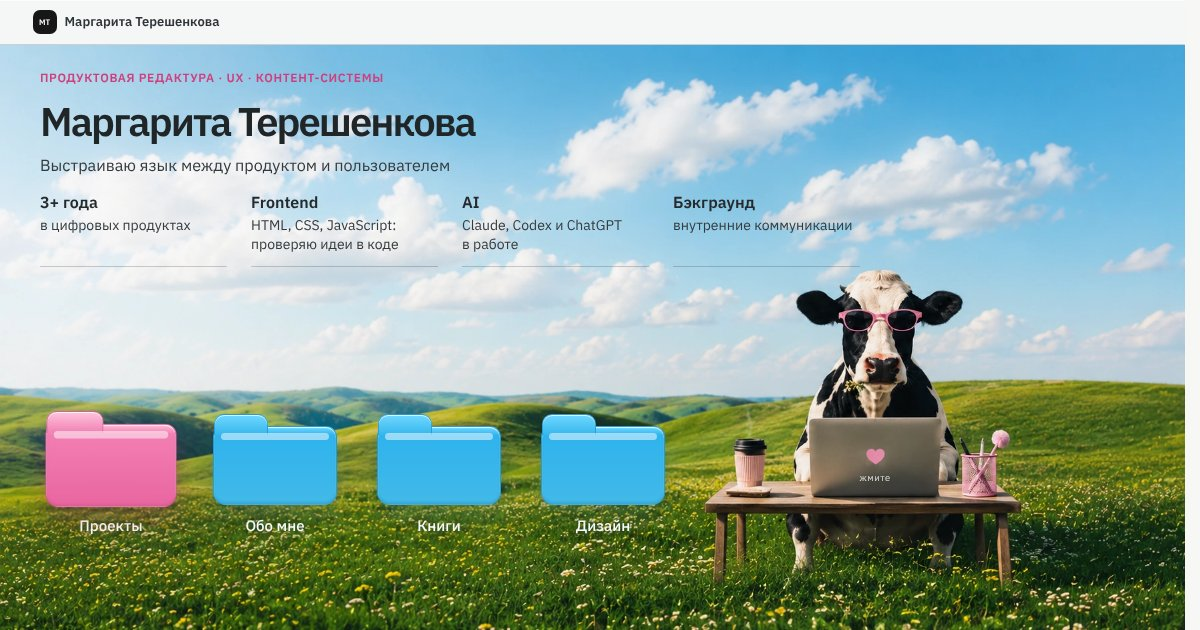
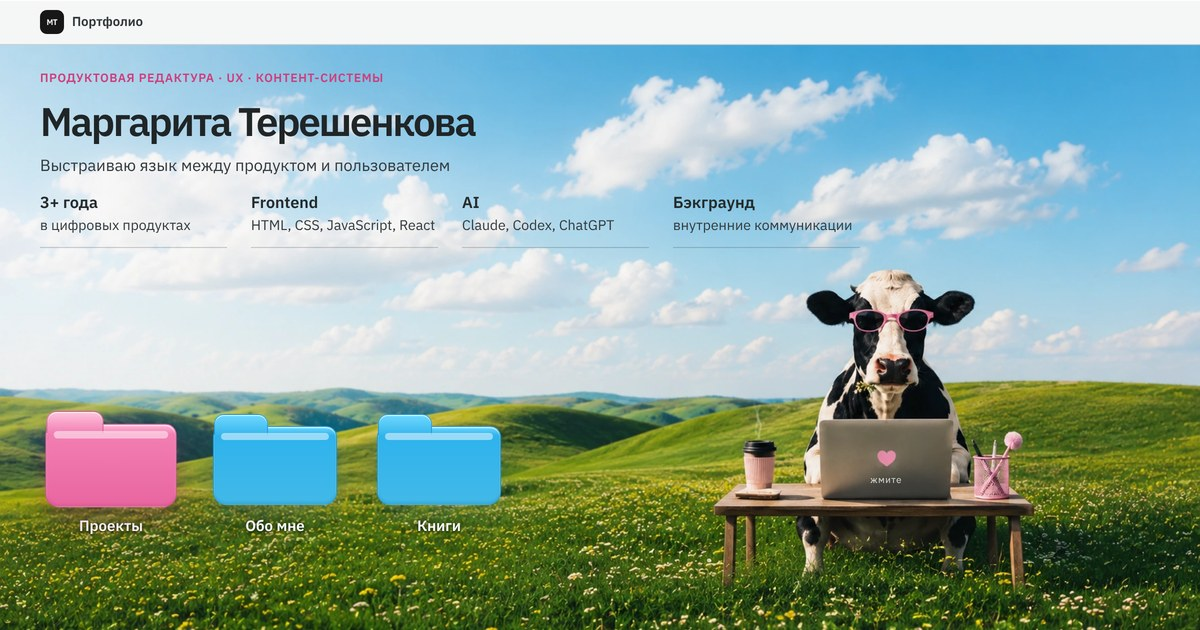
Add files via upload

diff --git a/books/index.html b/books/index.html
@@ -9,7 +9,7 @@
   <meta property="og:title" content="Маргарита Терешенкова — продуктовый редактор">
   <meta property="og:description" content="Портфолио продуктового редактора: базы знаний, UX-тексты и коммуникация продуктов для B2B, SaaS и финтеха">
   <meta property="og:url" content="https://tmskrr.github.io/">
-  <meta property="og:image" content="https://tmskrr.github.io/assets/images/portfolio/og-cover.jpg">
+  <meta property="og:image" content="https://tmskrr.github.io/assets/images/portfolio/og-cover.jpg?v=2">
   <meta property="og:image:width" content="1200">
   <meta property="og:image:height" content="630">
   <meta property="og:locale" content="ru_RU">
